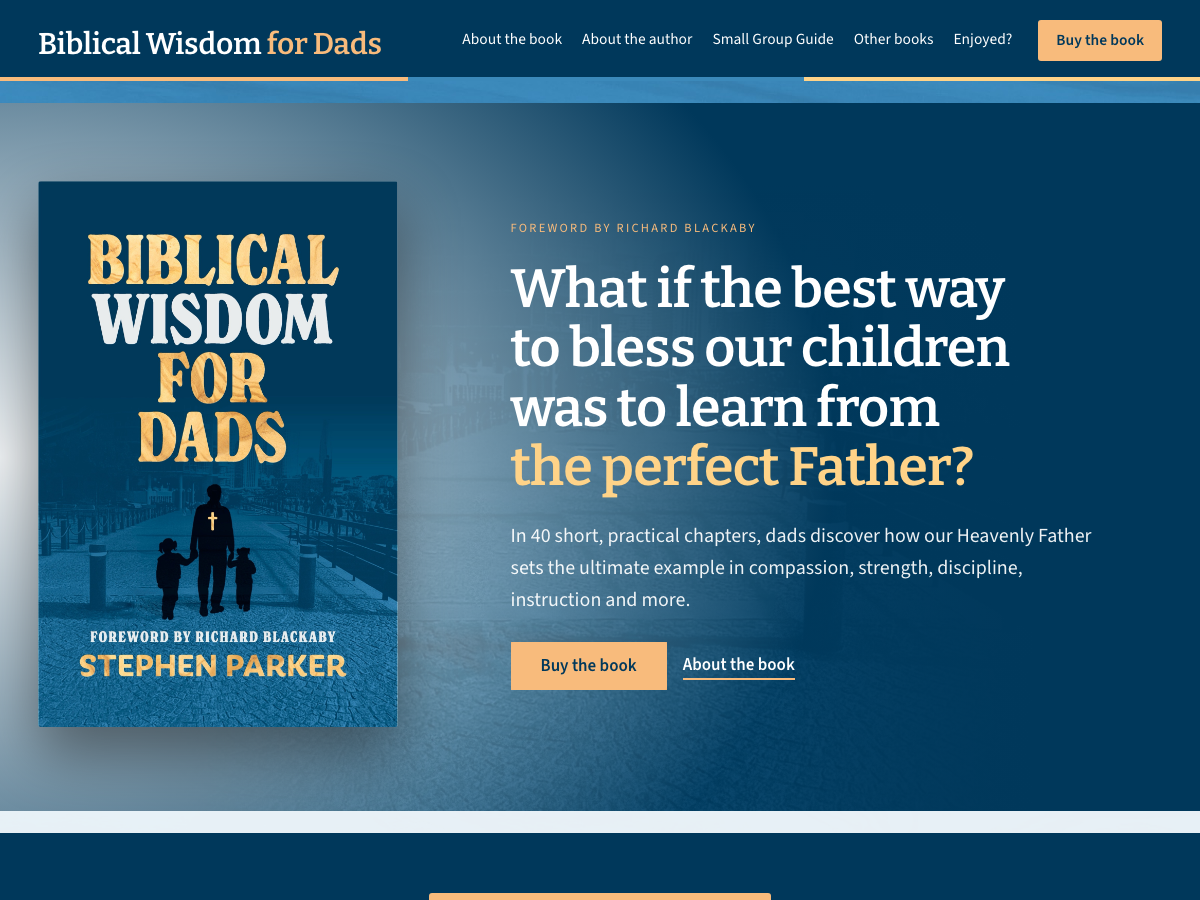
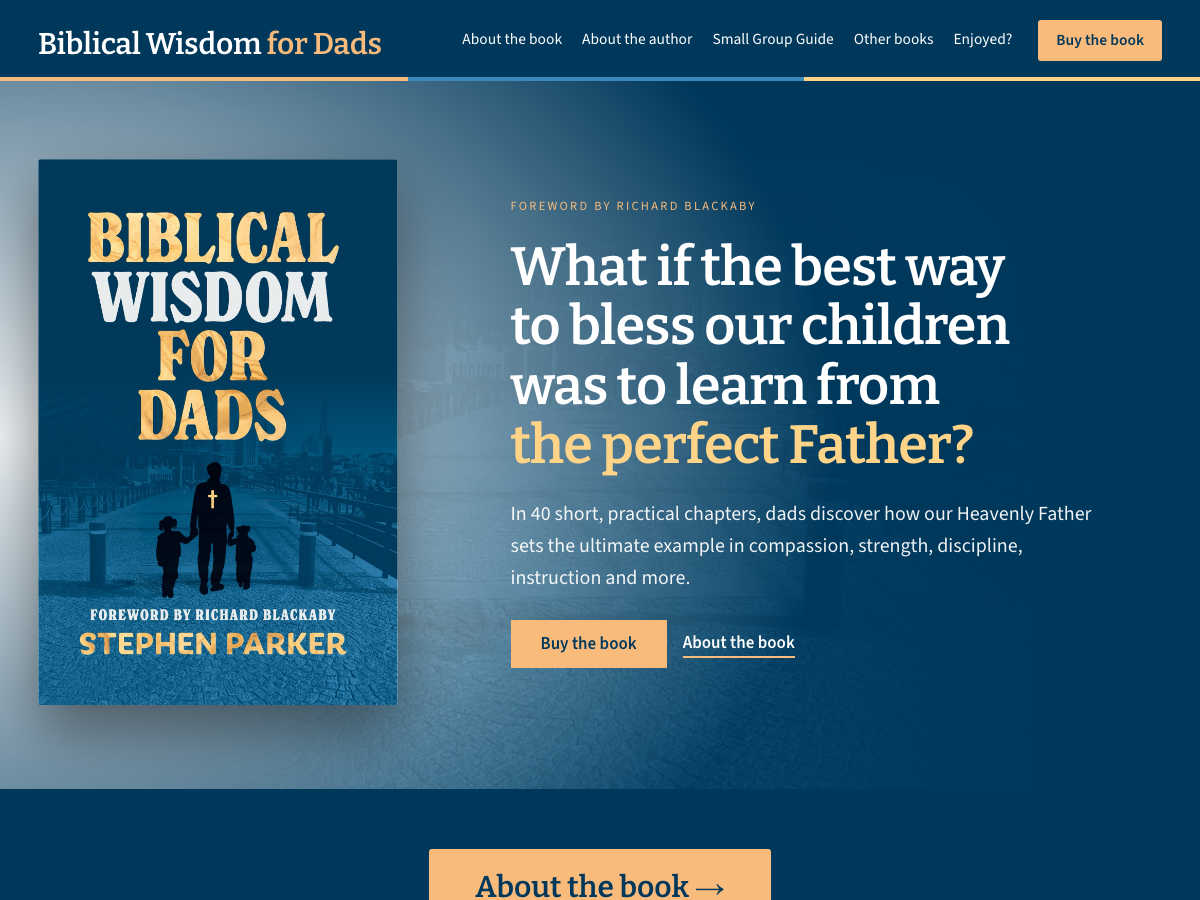
Flush full-width bands, fix 404 heading, refresh screenshot

diff --git a/templates/404.html b/templates/404.html
@@ -4,7 +4,9 @@
 <main class="wp-block-group alignfull bwfd-sheet" style="padding-top:0;padding-bottom:0">
 	<!-- wp:group {"className":"bwfd-section bwfd-section--first bwfd-section--last","layout":{"type":"constrained","contentSize":"760px"}} -->
 	<div class="wp-block-group bwfd-section bwfd-section--first bwfd-section--last">
-		<!-- wp:bwfd/section-heading {"content":"Page not found","level":1,"size":"display"} /-->
+		<!-- wp:bwfd/section-heading {"level":1,"size":"display"} -->
+		<div class="wp-block-bwfd-section-heading bwfd-section-heading has-text-align-left"><h1 class="bwfd-section-heading__title has-display-font-size">Page not found</h1><span class="bwfd-section-heading__rule" aria-hidden="true"></span></div>
+		<!-- /wp:bwfd/section-heading -->
 
 		<!-- wp:paragraph {"fontSize":"lg"} -->
 		<p class="has-lg-font-size">The page you were after has moved or never existed. Try one of the links below, or search the site.</p>

diff --git a/style.css b/style.css
@@ -565,3 +565,17 @@ img {
 	flex-direction: column;
 	gap: 22px;
 }
+
+/* Consecutive full-width bands (hero, navy band) sit flush, as in the design. */
+.wp-block-post-content > .alignfull + .alignfull {
+	margin-block-start: 0 !important;
+}
+
+.wp-block-post-content > .alignfull:first-child {
+	margin-block-start: 0 !important;
+}
+
+/* Header, main and footer stack flush; sections manage their own spacing. */
+.wp-site-blocks > * + * {
+	margin-block-start: 0 !important;
+}

diff --git a/src/blocks/hero/style.scss b/src/blocks/hero/style.scss
@@ -127,7 +127,7 @@ $navy: rgba(0, 56, 91, 1);
 		}
 
 		&__inner > .bwfd-framed-image {
-			max-width: 240px;
+			max-width: 240px !important;
 		}
 
 		&--reverse .wp-block-heading,
